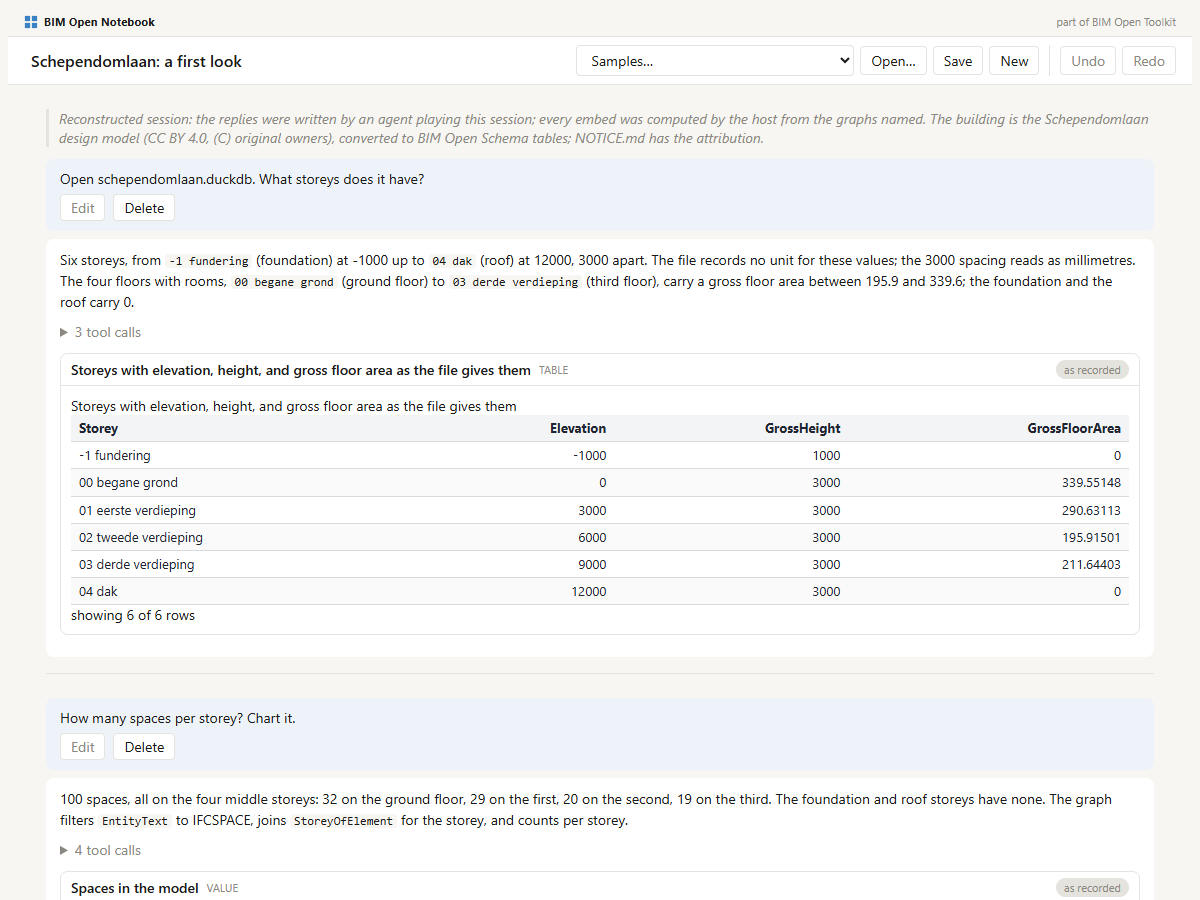
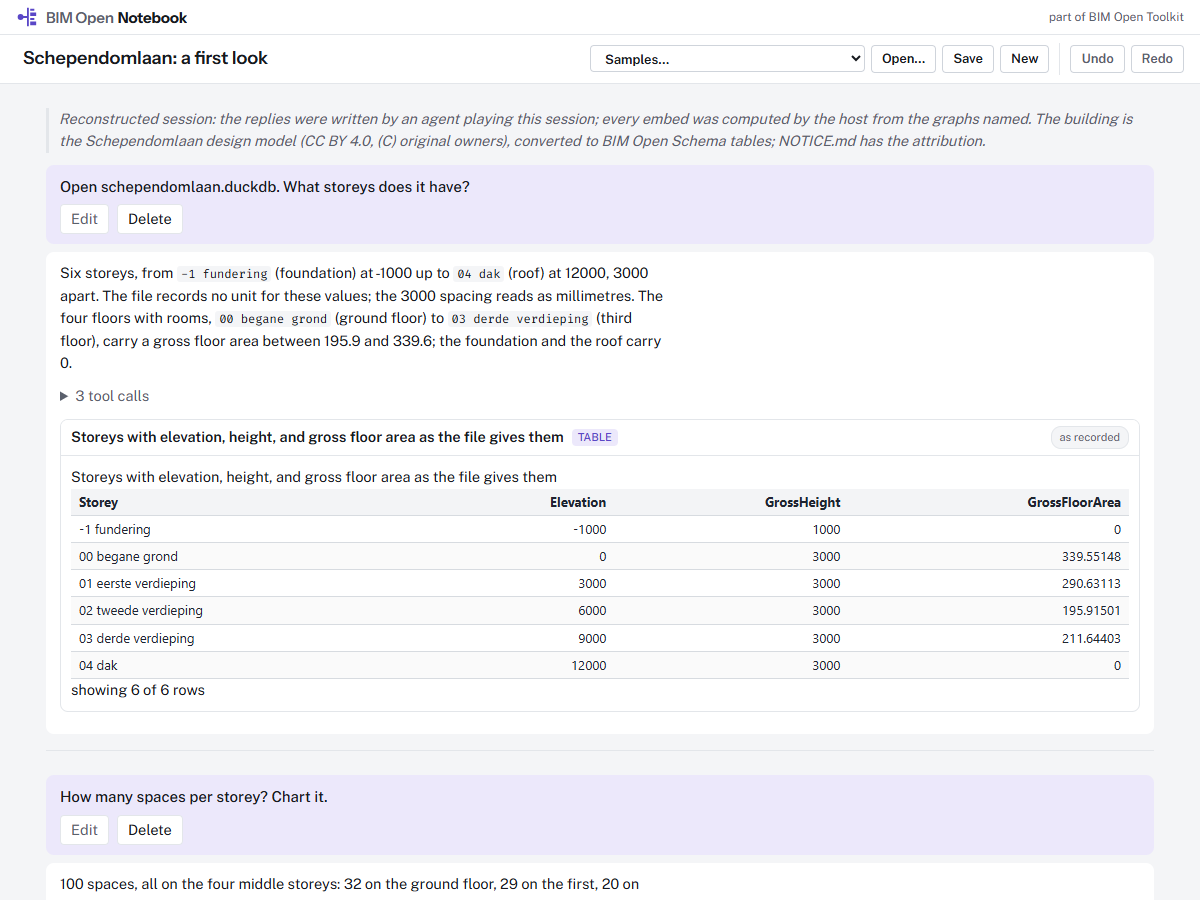
The notebook page carries the brand: Flow to Page mark, two-weight wordmark, ink violet, the three faces
Before, the page kept its pre-branding look (a four-squares icon, a blue
accent, Inter, warm greys) while the favicon and the family landing page
already followed docs/BRANDING.md. Now notebook.html loads Instrument
Sans, Public Sans and Fira Code; styles.ts takes the guide's neutrals,
status colours, the notebook accent and its soft tint, and the reading
scale (requests 15 px weight 500, replies 14.5 px on 1.55 and a 68ch
measure, tool-call lines in Fira Code); the brand bar draws the notebook
mark at 22 px beside "BIM Open" (600, dim) and "Notebook" (700). Buttons
take the control-edge grey, the Send button the accent, the embed kind
badge the soft accent. Dark mode keeps the same hues on dark surfaces;
the guide specifies only the light page. The README screenshots are
regenerated by gates/pages-smoke.mjs --screenshots docs/images.

Agent: session 745751d0-222c-4e56-b4b3-26281306b1e5

diff --git a/bimopenflow/web/packages/bim-open-notebook/src/page/styles.ts b/bimopenflow/web/packages/bim-open-notebook/src/page/styles.ts
@@ -3,43 +3,56 @@
 // prefers-color-scheme (same approach as packages/app/src/styles.ts). Both
 // the turn view and the notebook view (a later chunk) call
 // ensureNotebookStyles; the second call is a no-op.
+//
+// The values follow docs/BRANDING.md: the notebook's ink-violet accent, the
+// family's neutrals and status colours, Instrument Sans for the wordmark and
+// headings, Public Sans for the interface, Fira Code for ids and tool lines,
+// and the notebook reading scale (requests at 15 px, replies at 14.5 px on a
+// 1.55 line height). The dark values are the same hues lifted onto dark
+// surfaces; the guide specifies the light page only.
 
 export const notebookCss = `
 :root {
-  --nb-bg: #f7f6f3;
+  --nb-bg: #f4f5f7;
   --nb-surface: #ffffff;
-  --nb-border: #e5e3de;
-  --nb-text: #1a1a18;
-  --nb-dim: #8a8880;
-  --nb-accent: #3b82c4;
-  --nb-green: #3ba55d;
-  --nb-amber: #d99a2b;
-  --nb-red: #c0392b;
-  --nb-request-bg: #eef3fa;
+  --nb-border: #e3e6ea;
+  --nb-edge: #cfd4db;
+  --nb-text: #171a1f;
+  --nb-dim: #5a606c;
+  --nb-accent: #5a47c7;
+  --nb-accent-soft: #ece8fb;
+  --nb-green: #16a34a;
+  --nb-amber: #d97706;
+  --nb-red: #dc2626;
+  --nb-request-bg: #ece8fb;
   --nb-reply-bg: #ffffff;
-  --nb-font: Inter, "Segoe UI", system-ui, sans-serif;
+  --nb-font-brand: "Instrument Sans", "Public Sans", "Segoe UI", system-ui, sans-serif;
+  --nb-font: "Public Sans", "Segoe UI", system-ui, sans-serif;
+  --nb-font-mono: "Fira Code", "Cascadia Mono", Consolas, ui-monospace, monospace;
   --nb-column-width: 1140px;
 }
 @media (prefers-color-scheme: dark) {
   :root {
-    --nb-bg: #1a1a18;
-    --nb-surface: #242422;
-    --nb-border: #3a3a36;
-    --nb-text: #ece9e2;
-    --nb-dim: #9a988f;
-    --nb-accent: #6fb3f0;
-    --nb-green: #4fce7c;
-    --nb-amber: #e8b64f;
-    --nb-red: #e0685a;
-    --nb-request-bg: #232c36;
-    --nb-reply-bg: #242422;
+    --nb-bg: #16181d;
+    --nb-surface: #1f2228;
+    --nb-border: #30343c;
+    --nb-edge: #454a54;
+    --nb-text: #e8eaee;
+    --nb-dim: #9aa0ab;
+    --nb-accent: #9d8ff0;
+    --nb-accent-soft: #2b2650;
+    --nb-green: #4ade80;
+    --nb-amber: #fbbf24;
+    --nb-red: #f87171;
+    --nb-request-bg: #2b2650;
+    --nb-reply-bg: #1f2228;
   }
 }
-body { background: var(--nb-bg); color: var(--nb-text); font: 14px var(--nb-font); }
+body { margin: 0; background: var(--nb-bg); color: var(--nb-text); font: 400 14.5px/1.55 var(--nb-font); }
 .nb-column { width: 100%; max-width: var(--nb-column-width); box-sizing: border-box; margin: 0 auto; padding: 24px 16px; }
 .nb-turn { margin-bottom: 24px; border-bottom: 1px solid var(--nb-border); padding-bottom: 16px; }
 .nb-request { background: var(--nb-request-bg); border-radius: 8px; padding: 10px 14px; margin-bottom: 8px; }
-.nb-request-text { white-space: pre-wrap; }
+.nb-request-text { white-space: pre-wrap; font-size: 15px; font-weight: 500; }
 .nb-request-edit { width: 100%; box-sizing: border-box; min-height: 60px; font: inherit; padding: 6px; border-radius: 4px; border: 1px solid var(--nb-border); }
 .nb-controls { display: flex; gap: 8px; margin-top: 6px; }
 .nb-controls button {
@@ -48,22 +61,22 @@ body { background: var(--nb-bg); color: var(--nb-text); font: 14px var(--nb-font
 }
 .nb-controls button:disabled { color: var(--nb-dim); cursor: default; }
 .nb-reply { background: var(--nb-reply-bg); border-radius: 8px; padding: 10px 14px; }
-.nb-reply p { line-height: 1.5; margin: 0 0 10px; }
+.nb-reply p { max-width: 68ch; line-height: 1.55; margin: 0 0 10px; }
 .nb-reply p:last-child { margin-bottom: 0; }
-.nb-reply code { font: 12px/1.4 ui-monospace, SFMono-Regular, Consolas, monospace; background: var(--nb-bg); border-radius: 3px; padding: 0 4px; }
+.nb-reply code { font: 400 12px/1.4 var(--nb-font-mono); background: var(--nb-bg); border-radius: 3px; padding: 0 4px; }
 .nb-reply pre { background: var(--nb-bg); border: 1px solid var(--nb-border); border-radius: 6px; padding: 8px 10px; overflow-x: auto; margin: 0 0 10px; }
 .nb-reply pre code { background: none; padding: 0; }
 .nb-reply ul, .nb-reply ol { margin: 0 0 10px; padding-left: 22px; }
 .nb-reply li { line-height: 1.5; margin-bottom: 4px; }
 .nb-reply a { color: var(--nb-accent); }
-.nb-md-heading { font-weight: 600; margin: 10px 0 6px; }
+.nb-md-heading { font-family: var(--nb-font-brand); font-weight: 600; margin: 10px 0 6px; }
 h1.nb-md-heading { font-size: 15px; }
 h2.nb-md-heading { font-size: 14px; }
 h3.nb-md-heading { font-size: 13px; }
 .nb-error { color: var(--nb-red); font-weight: 600; margin-bottom: 8px; }
 .nb-tools { margin-bottom: 8px; }
 .nb-tools summary { cursor: pointer; color: var(--nb-dim); }
-.nb-tools ul { margin: 6px 0 0; padding-left: 18px; }
+.nb-tools ul { margin: 6px 0 0; padding-left: 18px; font: 400 11.5px/1.6 var(--nb-font-mono); }
 .nb-tool-mark { display: inline-block; width: 1.2em; }
 .nb-tool-ok .nb-tool-mark { color: var(--nb-green); }
 .nb-tool-failed .nb-tool-mark { color: var(--nb-red); }
@@ -74,12 +87,12 @@ h3.nb-md-heading { font-size: 13px; }
   background: var(--nb-surface); border-bottom: 1px solid var(--nb-border);
 }
 .nb-embed-caption { font-weight: 600; }
-.nb-embed-kind { font-size: 11px; text-transform: uppercase; color: var(--nb-dim); }
+.nb-embed-kind { font: 500 11px/1.5 var(--nb-font); text-transform: uppercase; padding: 0 6px; border-radius: 4px; background: var(--nb-accent-soft); color: var(--nb-accent); }
 .nb-embed-body { padding: 10px; overflow-x: auto; }
 .nb-badge { margin-left: auto; font-size: 11px; padding: 2px 8px; border-radius: 10px; white-space: nowrap; }
-.nb-badge-snapshot { background: var(--nb-border); color: var(--nb-dim); }
+.nb-badge-snapshot { background: var(--nb-bg); border: 1px solid var(--nb-border); color: var(--nb-dim); }
 .nb-badge-current { background: var(--nb-green); color: #fff; }
-.nb-badge-changed { background: var(--nb-amber); color: #1a1a18; }
+.nb-badge-changed { background: var(--nb-amber); color: #171a1f; }
 .nb-badge-unavailable { background: var(--nb-red); color: #fff; }
 .nb-stale { margin-top: 10px; color: var(--nb-amber); }
 .nb-earlier { margin-top: 10px; }

diff --git a/bimopenflow/web/packages/bim-open-notebook/src/page/shellStyles.ts b/bimopenflow/web/packages/bim-open-notebook/src/page/shellStyles.ts
@@ -6,14 +6,16 @@
 export const shellCss = `
 .nb-shell { min-height: 100vh; display: flex; flex-direction: column; }
 .nb-brand {
-  display: flex; align-items: center; gap: 6px; flex: none;
-  padding: 4px 16px; min-height: 20px; background: var(--nb-bg); border-bottom: 1px solid var(--nb-border);
-  font-size: 11px; line-height: 1.4; color: var(--nb-dim); overflow: hidden; white-space: nowrap;
+  display: flex; align-items: center; gap: 8px; flex: none;
+  padding: 6px 16px; min-height: 22px; background: var(--nb-surface); border-bottom: 1px solid var(--nb-border);
+  font-size: 12px; line-height: 1.4; color: var(--nb-dim); overflow: hidden; white-space: nowrap;
 }
 .nb-brand-mark { flex: none; fill: var(--nb-accent); }
 .nb-brand-name {
-  font-weight: 700; letter-spacing: 0.02em; color: var(--nb-text); overflow: hidden; text-overflow: ellipsis;
+  display: inline-flex; gap: 4px; font: 700 15px/1 var(--nb-font-brand); letter-spacing: -0.01em;
+  color: var(--nb-text); overflow: hidden; text-overflow: ellipsis;
 }
+.nb-brand-family { font-weight: 600; color: var(--nb-dim); }
 .nb-brand-link { flex: none; margin-left: auto; color: var(--nb-dim); text-decoration: none; }
 .nb-brand-link:hover, .nb-brand-link:focus { color: var(--nb-accent); text-decoration: underline; }
 .nb-toolbar {
@@ -21,14 +23,15 @@ export const shellCss = `
   padding: 8px 16px; background: var(--nb-surface); border-bottom: 1px solid var(--nb-border);
 }
 .nb-title {
-  flex: 1 1 220px; min-width: 120px; font: 600 16px var(--nb-font); color: var(--nb-text);
+  flex: 1 1 220px; min-width: 120px; font: 600 18px/1.2 var(--nb-font-brand); color: var(--nb-text);
   background: transparent; border: 1px solid transparent; border-radius: 4px; padding: 4px 6px;
 }
 .nb-title:hover, .nb-title:focus { border-color: var(--nb-border); outline: none; }
 .nb-toolbar button, .nb-toolbar select, .nb-ask button {
-  font: inherit; padding: 4px 10px; border: 1px solid var(--nb-border); border-radius: 4px;
+  font: 600 13px/1.4 var(--nb-font); padding: 4px 10px; border: 1px solid var(--nb-edge); border-radius: 4px;
   background: var(--nb-surface); color: var(--nb-text); cursor: pointer;
 }
+.nb-ask .nb-send:not(:disabled) { background: var(--nb-accent); border-color: var(--nb-accent); color: #fff; }
 .nb-toolbar button:disabled, .nb-toolbar select:disabled, .nb-ask button:disabled { color: var(--nb-dim); cursor: default; }
 .nb-toolbar-sep { width: 1px; align-self: stretch; background: var(--nb-border); margin: 0 4px; }
 .nb-status { flex-basis: 100%; font-size: 12px; color: var(--nb-dim); min-height: 1em; }
@@ -38,7 +41,7 @@ export const shellCss = `
   border-radius: 8px; color: var(--nb-text); background: var(--nb-surface);
 }
 .nb-problems-heading { font-weight: 600; color: var(--nb-red); }
-.nb-problems ul { margin: 6px 0; padding-left: 18px; font-family: ui-monospace, Consolas, monospace; font-size: 12px; }
+.nb-problems ul { margin: 6px 0; padding-left: 18px; font: 400 12px/1.5 var(--nb-font-mono); }
 .nb-empty { color: var(--nb-dim); text-align: center; padding: 32px 0; }
 .nb-note { color: var(--nb-dim); font-style: italic; margin: 0 0 12px; border-left: 3px solid var(--nb-border); padding-left: 10px; }
 .nb-live {
@@ -59,8 +62,9 @@ export const shellCss = `
 }
 .nb-ask textarea {
   width: 100%; box-sizing: border-box; min-height: 64px; resize: vertical; font: inherit; padding: 8px;
-  color: var(--nb-text); background: var(--nb-surface); border: 1px solid var(--nb-border); border-radius: 6px;
+  color: var(--nb-text); background: var(--nb-surface); border: 1px solid var(--nb-edge); border-radius: 6px;
 }
+.nb-ask textarea:focus { outline: none; border-color: var(--nb-accent); }
 .nb-ask textarea:disabled { color: var(--nb-dim); }
 .nb-ask-row { display: flex; align-items: center; gap: 8px; }
 .nb-ask-row .nb-send { margin-left: auto; }

diff --git a/bimopenflow/web/packages/bim-open-notebook/src/page/notebookView.ts b/bimopenflow/web/packages/bim-open-notebook/src/page/notebookView.ts
@@ -61,6 +61,14 @@ export const UNTITLED = "Untitled notebook";
 /** The product name shown in the brand bar and the document title. */
 export const BRAND_NAME = "BIM Open Notebook";
 
+/** The two halves of the wordmark: the family in weight 600 dim, the product in weight 700 (docs/BRANDING.md, The names). */
+const BRAND_FAMILY = "BIM Open";
+const BRAND_PRODUCT = "Notebook";
+
+/** The notebook mark, Flow to Page: the path of docs/brand/notebook-mark.svg, filled with the accent. */
+const BRAND_MARK_PATH =
+  "M1.8 12a3.2 3.2 0 1 1 6.4 0a3.2 3.2 0 1 1-6.4 0ZM8 11h4.5v2H8ZM12 2h2v20h-2ZM15.5 3h4.5v2.2h-4.5ZM15.5 7h6.5v4h-6.5ZM15.5 13h4.5v2.2h-4.5ZM15.5 17h6.5v4h-6.5Z";
+
 /** The brand bar's link text and target: the toolkit repository. */
 export const BRAND_TAGLINE = "part of BIM Open Toolkit";
 export const TOOLKIT_URL = "https://github.com/ara3d/bim-open-toolkit";
@@ -247,20 +255,18 @@ export function mountNotebook(root: HTMLElement, options: NotebookViewOptions): 
   // --- Brand bar -------------------------------------------------------------
 
   /**
-   * A slim bar above the toolbar: the product name and a link to the
-   * toolkit repository, so a screenshot or an embedded page reads as BIM
-   * Open Notebook without depending on the document title alone.
+   * A slim bar above the toolbar: the mark, the two-weight wordmark, and a
+   * link to the toolkit repository, so a screenshot or an embedded page
+   * reads as BIM Open Notebook without depending on the document title alone.
    */
   function buildBrandBar(): HTMLElement {
     const bar = el(doc, "div", "nb-brand");
     bar.innerHTML =
-      '<svg class="nb-brand-mark" viewBox="0 0 16 16" width="14" height="14" aria-hidden="true" focusable="false">' +
-      '<rect x="1" y="1" width="6" height="6" rx="1"></rect>' +
-      '<rect x="9" y="1" width="6" height="6" rx="1"></rect>' +
-      '<rect x="1" y="9" width="6" height="6" rx="1"></rect>' +
-      '<rect x="9" y="9" width="6" height="6" rx="1"></rect>' +
-      "</svg>";
-    bar.append(el(doc, "span", "nb-brand-name", BRAND_NAME));
+      '<svg class="nb-brand-mark" viewBox="0 0 24 24" width="22" height="22" aria-hidden="true" focusable="false">' +
+      `<path d="${BRAND_MARK_PATH}"></path></svg>`;
+    const name = el(doc, "span", "nb-brand-name");
+    name.append(el(doc, "span", "nb-brand-family", BRAND_FAMILY), el(doc, "span", "nb-brand-product", BRAND_PRODUCT));
+    bar.append(name);
     const link = el(doc, "a", "nb-brand-link", BRAND_TAGLINE);
     link.href = TOOLKIT_URL;
     link.target = "_blank";

diff --git a/bimopenflow/web/packages/bim-open-notebook/test/notebookView.test.ts b/bimopenflow/web/packages/bim-open-notebook/test/notebookView.test.ts
@@ -180,7 +180,9 @@ describe("mountNotebook", () => {
   it("shows a brand bar naming BIM Open Notebook, linked to the toolkit repository", () => {
     mount({ initial: sample() });
     const brand = q<HTMLElement>(".nb-brand");
-    expect(brand.querySelector(".nb-brand-name")!.textContent).toBe(BRAND_NAME);
+    expect(brand.querySelector(".nb-brand-family")!.textContent).toBe("BIM Open");
+    expect(brand.querySelector(".nb-brand-product")!.textContent).toBe("Notebook");
+    expect(brand.querySelector(".nb-brand-mark path")!.getAttribute("d")).toMatch(/^M1.8 12a3.2/);
     const link = brand.querySelector<HTMLAnchorElement>(".nb-brand-link")!;
     expect(link.textContent).toBe(BRAND_TAGLINE);
     expect(link.href).toBe(TOOLKIT_URL);

diff --git a/bimopenflow/web/packages/bim-open-notebook/notebook.html b/bimopenflow/web/packages/bim-open-notebook/notebook.html
@@ -6,6 +6,10 @@
     <title>BIM Open Notebook</title>
     <!-- A copy of docs/brand/notebook-mark.svg (docs/BRANDING.md, Favicons). -->
     <link rel="icon" type="image/svg+xml" href="favicon.svg" />
+    <!-- The three brand faces (docs/BRANDING.md, Fonts); styles.ts names the fallbacks. -->
+    <link rel="preconnect" href="https://fonts.googleapis.com" />
+    <link rel="preconnect" href="https://fonts.gstatic.com" crossorigin />
+    <link href="https://fonts.googleapis.com/css2?family=Instrument+Sans:wght@600;700&family=Public+Sans:wght@400;500;600&family=Fira+Code:wght@400;500&display=swap" rel="stylesheet" />
   </head>
   <body>
     <div id="notebook"></div>
